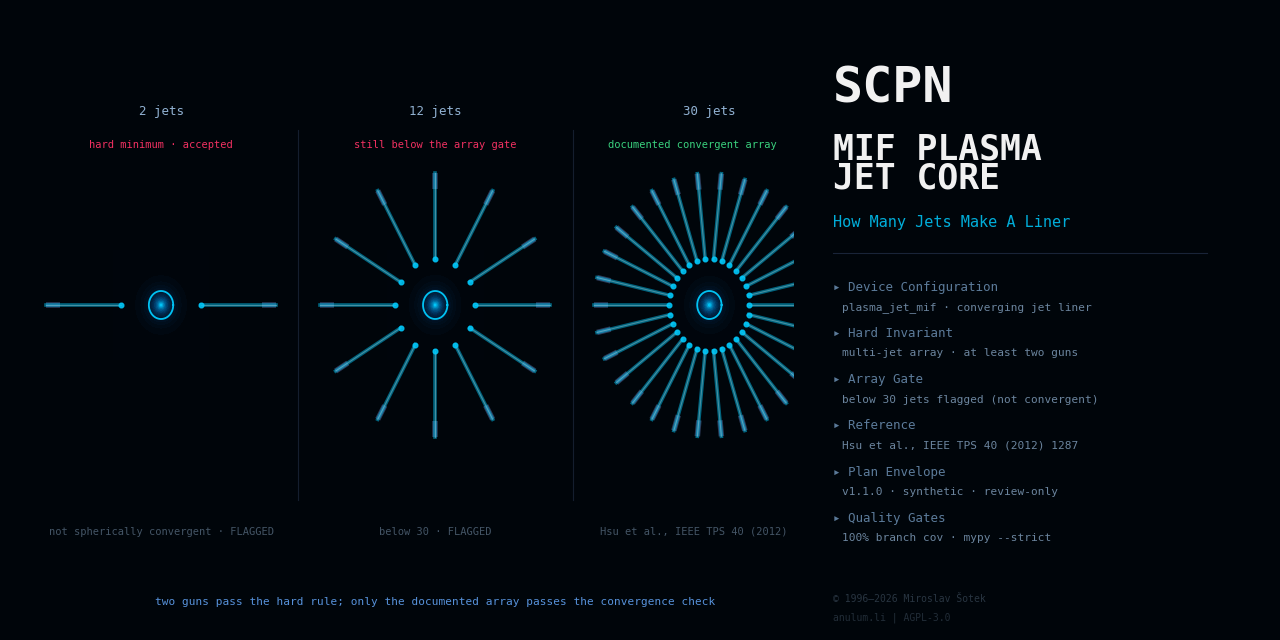
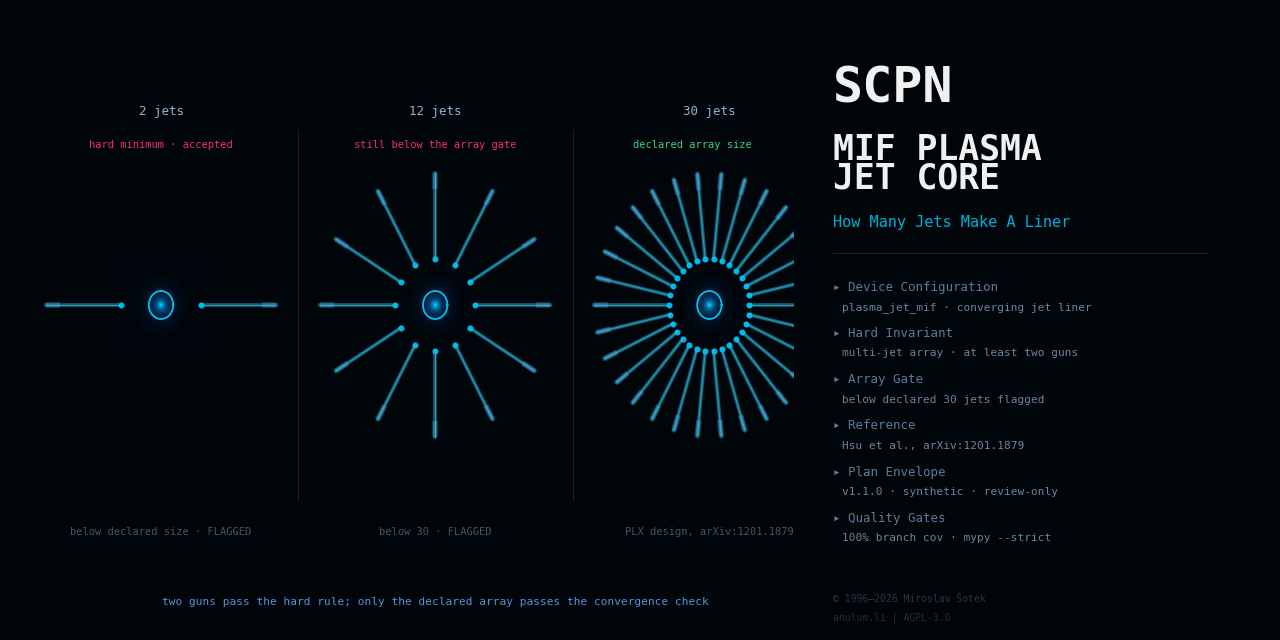
docs(configuration): name the 30-jet array size declared
The configuration and parameter modules, ADR 0002, VALIDATION and the
header artwork said that a spherically convergent plasma liner is not
formed below about 30 jets in the documented gun-array designs, crediting
Hsu et al., IEEE TPS 40 (2012) 1287, which is not on file. The filed
related preprint (Hsu et al., arXiv:1201.1879) describes the PLX design
with 30 jets (PDF pp. 2-3) and a 30-jet implosion that tends towards good
spherical symmetry (PDF p. 4), but prints no minimum below which a liner
is not formed (preprint searched sentence by sentence for jet counts).

The size is now named declared and tied to the PLX design count; the
finding says "declared spherically convergent array size" and its test
asserts it. ADR 0002 gains a dated amendment. The header labels no
longer say "not convergent"; the three PNGs are regenerated (byte-
identical regeneration from the unchanged generator first; the
array-gate image was viewed twice). No value or check changes.

Verification: ruff, format and mypy strict clean; targeted tests
test_configuration, test_parameters, test_repository_contract,
test_derive_studio_descriptor and test_generate_capability_inventory:
112 passed. Staged diff read line by line before commit.

Seat: 09bd
Authored by Anulum Fortis & Arcane Sapience (protoscience@anulum.li)

diff --git a/src/scpn_mif_plasma_jet_core/configuration.py b/src/scpn_mif_plasma_jet_core/configuration.py
@@ -10,13 +10,15 @@
 
 A :class:`DeviceConfiguration` composes a validated jet array under the
 single registry identifier this repository owns. The multi-jet
-requirement is hard; an array below the documented spherically
-convergent size is flagged (Hsu et al., IEEE TPS 40 (2012) 1287; the filed
-related preprint arXiv:1201.1879 shows the 30-jet array in Fig. 1, PDF p. 3).
-Serialisation is canonical (sorted keys, no NaN or infinity accepted
-anywhere) and the SHA-256 digest of those bytes identifies the exact
-parameter set. The registry binding is a data pin only — this package
-never imports SCPN Phase Orchestrator code.
+requirement is hard; an array below a declared size of 30 jets is
+flagged. Thirty is the jet count of the PLX design in the filed related
+preprint (Hsu et al., arXiv:1201.1879: 30 jets, PDF pp. 2-3; a 30-jet
+implosion tending towards good spherical symmetry, PDF p. 4); the
+preprint states no minimum, and the cited Hsu et al., IEEE TPS 40 (2012)
+1287, is not on file. Serialisation is canonical (sorted keys, no NaN or
+infinity accepted anywhere) and the SHA-256 digest of those bytes
+identifies the exact parameter set. The registry binding is a data pin
+only — this package never imports SCPN Phase Orchestrator code.
 """
 
 from __future__ import annotations
@@ -133,8 +135,8 @@ class DeviceConfiguration:
         Returns
         -------
         tuple of ConsistencyFinding
-            Advisory findings from the documented estimates; empty when
-            the array reaches the documented spherically convergent
+            Advisory findings from the declared estimates; empty when
+            the array reaches the declared spherically convergent
             size. Findings are advisory instruments, not machine
             claims.
         """
@@ -145,7 +147,7 @@ class DeviceConfiguration:
                     field="jets.jet_count",
                     message=(
                         f"jet count {self.jets.jet_count} is below the "
-                        f"documented spherically convergent array size "
+                        f"declared spherically convergent array size "
                         f"{SPHERICAL_ARRAY_MIN_JETS}"
                     ),
                 )

diff --git a/docs/assets/generate_header.py b/docs/assets/generate_header.py
@@ -12,7 +12,7 @@ Every image is original generated artwork derived from this repository's
 own domain surface — the spherically convergent jet array, the
 array-size gate the configuration model checks, and the merge-to-liner
 sequence. The jet counts drawn are the repository's own constants: the
-hard minimum of two guns and the documented convergent array size. The
+hard minimum of two guns and the declared convergent array size. The
 right-hand text panel states only facts backed by the repository
 itself.
 
@@ -54,8 +54,8 @@ SPHERICAL_ARRAY_MIN_JETS = 30
 TITLE_METRICS: list[tuple[str, str]] = [
     ("Device Configuration", "plasma_jet_mif · converging jet liner"),
     ("Hard Invariant", "multi-jet array · at least two guns"),
-    ("Array Gate", "below 30 jets flagged (not convergent)"),
-    ("Reference", "Hsu et al., IEEE TPS 40 (2012) 1287"),
+    ("Array Gate", "below declared 30 jets flagged"),
+    ("Reference", "Hsu et al., arXiv:1201.1879"),
     ("Plan Envelope", "v1.1.0 · synthetic · review-only"),
     ("Quality Gates", "100% branch cov · mypy --strict"),
 ]
@@ -330,7 +330,7 @@ def generate_array_gate() -> None:
             f"{MIN_JET_COUNT} jets",
             "hard minimum · accepted",
             RED,
-            "not spherically convergent · FLAGGED",
+            "below declared size · FLAGGED",
         ),
         (
             5.0,
@@ -344,9 +344,9 @@ def generate_array_gate() -> None:
             8.15,
             SPHERICAL_ARRAY_MIN_JETS,
             f"{SPHERICAL_ARRAY_MIN_JETS} jets",
-            "documented convergent array",
+            "declared array size",
             GREEN,
-            "Hsu et al., IEEE TPS 40 (2012) 1287",
+            "PLX design, arXiv:1201.1879",
         ),
     ]
     for centre_x, jets, title, subtitle, colour, note in panels:
@@ -409,7 +409,7 @@ def generate_array_gate() -> None:
     ax.text(
         5.0,
         -2.85,
-        "two guns pass the hard rule; only the documented array passes "
+        "two guns pass the hard rule; only the declared array passes "
         "the convergence check",
         color=PROBE,
         fontsize=8,

diff --git a/src/scpn_mif_plasma_jet_core/parameters.py b/src/scpn_mif_plasma_jet_core/parameters.py
@@ -10,10 +10,9 @@
 
 The derived quantities implement standard mechanics and nothing more:
 per-jet and total kinetic energy ``E = n m v^2 / 2``. They are rough
-consistency instruments with documented applicability bounds
-(spherically convergent gun arrays; S. C. Hsu et al., IEEE Trans.
-Plasma Sci. 40 (2012) 1287); no claim about any real machine follows
-from them.
+consistency instruments with documented applicability bounds (the
+declared spherically convergent array size; see the configuration
+module); no claim about any real machine follows from them.
 """
 
 from __future__ import annotations

diff --git a/tests/test_configuration.py b/tests/test_configuration.py
@@ -75,6 +75,7 @@ def test_consistency_report_clean_and_finding() -> None:
     findings = sparse.consistency_report()
     assert len(findings) == 1
     assert "spherically convergent" in findings[0].message
+    assert "declared spherically convergent" in findings[0].message
 
 
 def test_canonical_round_trip_and_digest() -> None:

diff --git a/docs/adr/0002-device-configuration-model.md b/docs/adr/0002-device-configuration-model.md
@@ -36,10 +36,10 @@ follow the family pilot.
    converging liner that defines plasma-jet magneto-inertial fusion.
 4. Derived quantities from standard mechanics: per-jet and total
    kinetic energy ``E = n m v^2 / 2``. Advisory finding, reported by
-   `consistency_report()` and never clamped: a jet count below ~30,
-   under which a spherically convergent plasma liner is not formed in
-   the documented gun-array designs (S. C. Hsu et al., IEEE Trans.
-   Plasma Sci. 40 (2012) 1287).
+   `consistency_report()` and never clamped: a jet count below a
+   declared 30. Thirty is the jet count of the PLX design in the filed
+   related preprint of S. C. Hsu et al. (arXiv:1201.1879, PDF pp. 2-4);
+   the preprint states no minimum below which a liner is not formed.
 5. Repository-level `evidence_maturity` = the highest state claimed by
    any capability entry; per-capability states are the authoritative
    claim surface.
@@ -57,3 +57,12 @@ follow the family pilot.
 - Later lanes (launch/merging/compression diagnostic semantics with
   dual clocks, safety envelope) build on these types; maturity advances
   per capability only with the evidence the family standard requires.
+
+## Amendment 2026-10-31
+
+The array-size finding said that a spherically convergent liner is not
+formed below about 30 jets in the documented gun-array designs, credited
+to Hsu et al., IEEE Trans. Plasma Sci. 40 (2012) 1287 (not on file). The
+filed related preprint (arXiv:1201.1879) shows a 30-jet design and its
+simulation but prints no such minimum. The size is now named declared.
+No value or check changed.

diff --git a/VALIDATION.md b/VALIDATION.md
@@ -82,9 +82,11 @@ What is exercised, all under the 100 % statement-and-branch coverage gate:
   multiple jets) — every rejection branch is tested.
 - The standard-mechanics kinetic-energy relations (per jet and total)
   as documented derived quantities, with an advisory finding for arrays
-  below the documented spherically convergent size ~30 jets (Hsu et
-  al., IEEE Trans. Plasma Sci. 40 (2012) 1287; read in the filed related
-  arXiv:1201.1879, Fig. 1, PDF p. 3), reported and never clamped.
+  below the declared spherically convergent size of 30 jets (the jet
+  count of the PLX design in the filed related arXiv:1201.1879, Fig. 1,
+  PDF p. 3; the preprint prints no minimum, and the earlier claim that a
+  liner is not formed below 30 was removed on 2026-10-31), reported and
+  never clamped.
 - Canonical serialisation (sorted keys, NaN/infinity rejected on both
   emit and parse), SHA-256 digest identity, and a strict round-trip
   parser that refuses unknown fields.
